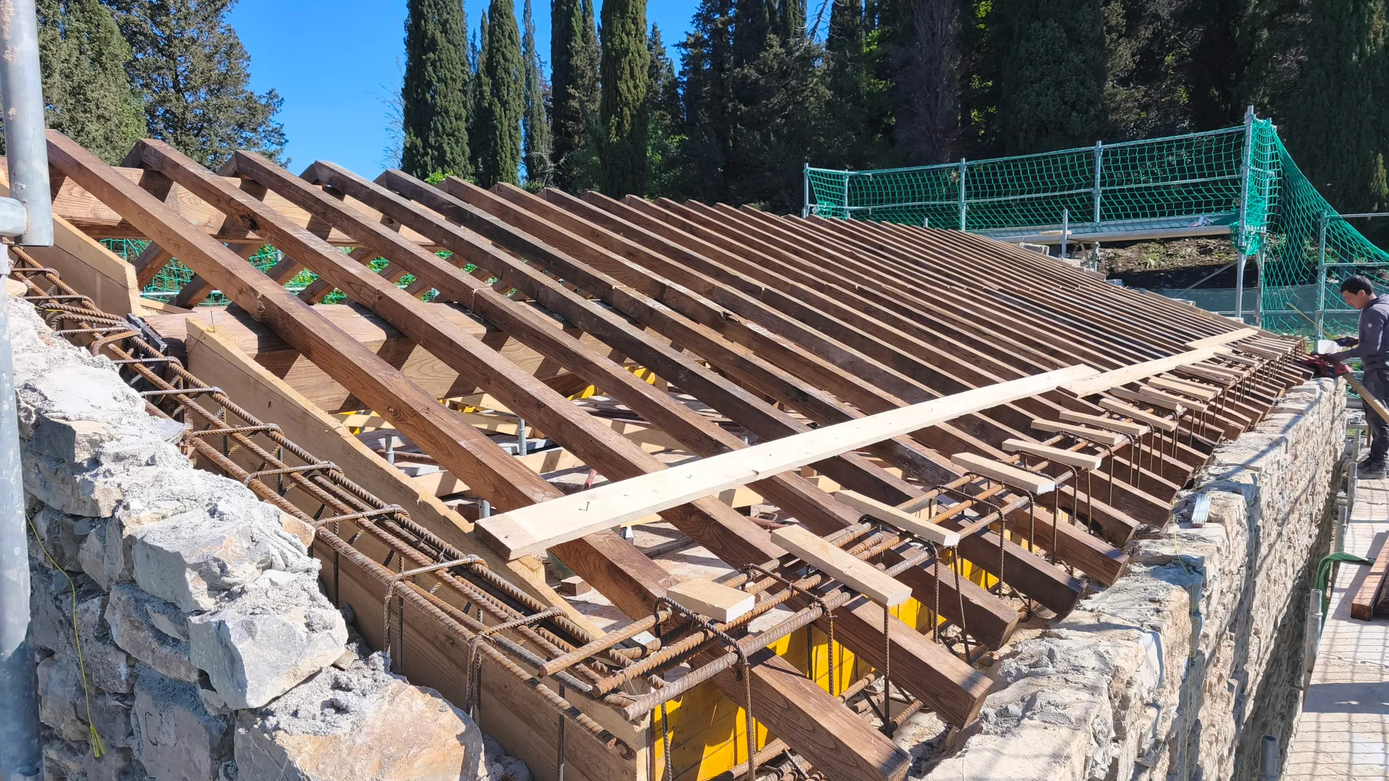
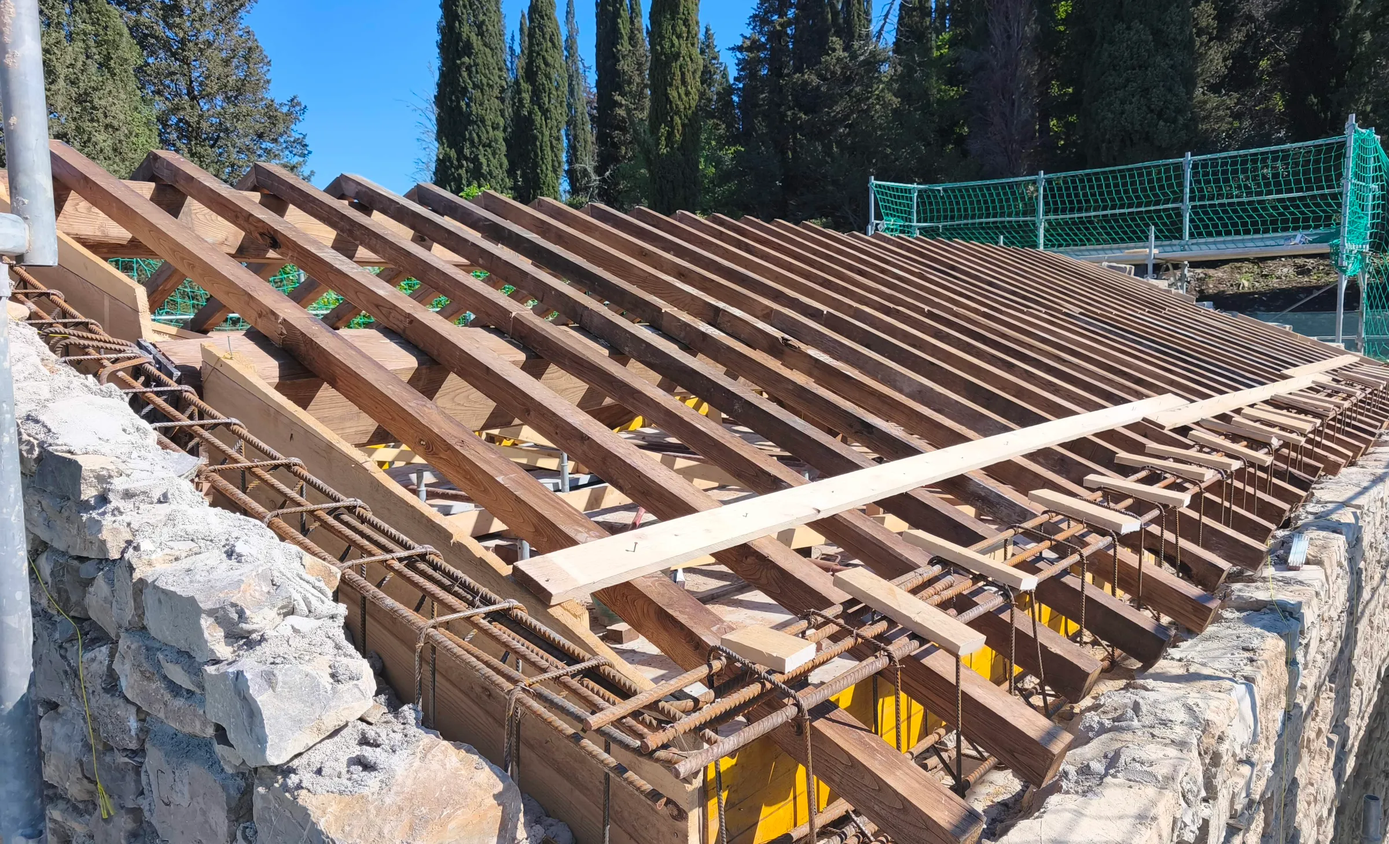
Scelta copertine, gallerie e hero; ritaglio copertina Gaiole

diff --git a/src/data/projects.ts b/src/data/projects.ts
@@ -3,6 +3,7 @@ import type { Project } from '@/types'
 // Testi da tecnochianti-contenuti-progetti.md.
 // I dati ancora da confermare col cliente sono lasciati vuoti ('') e non compaiono sul sito.
 // Copertina, foto e hero: si cambiano modificando il nome file (vedi /anteprima-foto).
+// L'ordine di `photos` è l'ordine della galleria; le foto escluse restano in public/ ma non compaiono.
 
 export const projects: Project[] = [
   {
@@ -27,10 +28,10 @@ export const projects: Project[] = [
       { label: 'Impianti', value: 'Pompa di calore, VMC, fotovoltaico con accumulo' },
       { label: 'Anno', value: '' },
     ],
-    cover: '01.webp',
+    cover: '11.webp',
     photos: [
-      '01.webp', '02.webp', '03.webp', '04.webp', '05.webp', '06.webp', '07.webp', '08.webp',
-      '09.webp', '10.webp', '11.webp', '12.webp', '13.webp', '14.webp', '15.webp', '16.webp',
+      '11.webp', '13.webp', '12.webp', '14.webp', '15.webp', '01.webp', '16.webp', '03.webp',
+      '06.webp', '07.webp', '08.webp', '04.webp', '05.webp',
     ],
     featured: true,
   },
@@ -55,8 +56,10 @@ export const projects: Project[] = [
       { label: 'Edifici', value: 'Villa, colonica, foresteria, ex tinaia, limonaia' },
       { label: 'Anno', value: '' },
     ],
-    cover: '01.webp',
-    photos: ['01.webp', '02.webp', '03.webp', '04.webp', '05.webp', '06.webp', '07.webp', '08.webp'],
+    cover: '06.webp',
+    photos: [
+      '05.webp', '04.webp', '06.webp', '07.webp', '01.webp', '02.webp', '03.webp', '08.webp',
+    ],
     featured: true,
   },
   {
@@ -81,10 +84,10 @@ export const projects: Project[] = [
       { label: 'Destinazione', value: 'Turistico ricettiva' },
       { label: 'Anno', value: '' },
     ],
-    cover: '01.webp',
+    cover: '07.webp',
     photos: [
-      '01.webp', '02.webp', '03.webp', '04.webp', '05.webp',
-      '06.webp', '07.webp', '08.webp', '09.webp', '10.webp',
+      '07.webp', '09.webp', '03.webp', '06.webp', '04.webp', '05.webp', '10.webp', '08.webp',
+      '02.webp',
     ],
     featured: true,
   },
@@ -108,17 +111,19 @@ export const projects: Project[] = [
       { label: 'Altezza interna', value: '4,00 m' },
       { label: 'Anno', value: '' },
     ],
-    cover: '01.webp',
-    photos: ['01.webp', '02.webp', '03.webp', '04.webp', '05.webp', '06.webp', '07.webp'],
+    cover: '06.webp',
+    photos: [
+      '06.webp', '03.webp', '05.webp', '07.webp', '02.webp',
+    ],
   },
 ]
 
 // Foto della hero in Home (dissolvenza in sequenza).
 export const heroPhotos: Array<{ slug: string; file: string }> = [
-  { slug: 'beretuzzo', file: '01.webp' },
-  { slug: 'palazzo-al-bosco', file: '01.webp' },
-  { slug: 'complesso-gaiole', file: '01.webp' },
-  { slug: 'cantina-le-prata', file: '01.webp' },
+  { slug: 'palazzo-al-bosco', file: '05.webp' },
+  { slug: 'beretuzzo', file: '11.webp' },
+  { slug: 'palazzo-al-bosco', file: '07.webp' },
+  { slug: 'beretuzzo', file: '12.webp' },
 ]
 
 export function photoSrc(slug: string, file: string): string {
